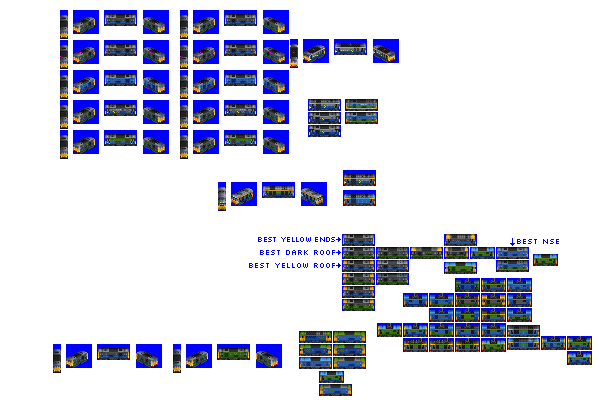
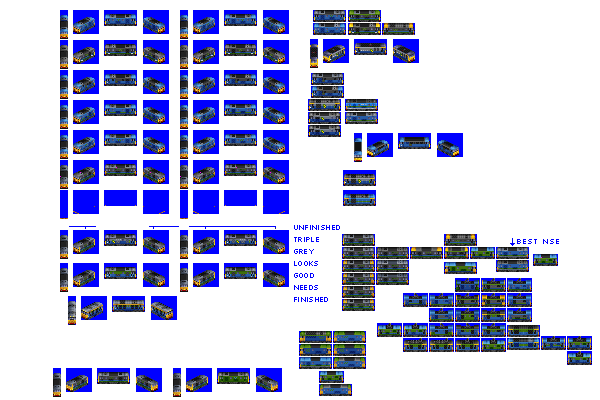
Change: additional liveries for Super Shoebox

diff --git a/src/vehicles/super_shoebox.py b/src/vehicles/super_shoebox.py
@@ -14,15 +14,17 @@ def main(roster_id):
         pantograph_type="z-shaped-single",
         gen=5,
         # additional_liveries=["RAILFREIGHT_TRIPLE_GREY", "DUTCH"],
-        additional_liveries=[],
+        additional_liveries=["INTERCITY_RASPBERRY_RIPPLE", "RES", "SWOOSH", "DBSCHENKER"], # "RAILFREIGHT_TRIPLE_GREY"
         default_livery_extra_docs_examples=[
             ("COLOUR_PINK", "COLOUR_WHITE"),
             ("COLOUR_LIGHT_BLUE", "COLOUR_WHITE"),
             ("COLOUR_CREAM", "COLOUR_GREY"),
             ("COLOUR_ORANGE", "COLOUR_BROWN"),
         ],
+        decor_spriterow_num=6,
+        show_decor_in_purchase_for_variants=[1],
         sprites_complete=True,
-        sprites_additional_liveries_potential=True,  # railfreight, dutch, DB Schenker?
+        sprites_additional_liveries_potential=True,
     )
 
     consist.add_unit(
